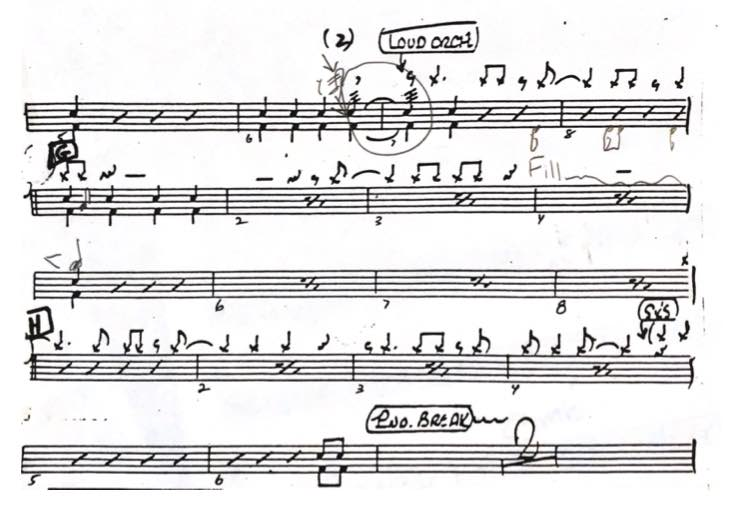
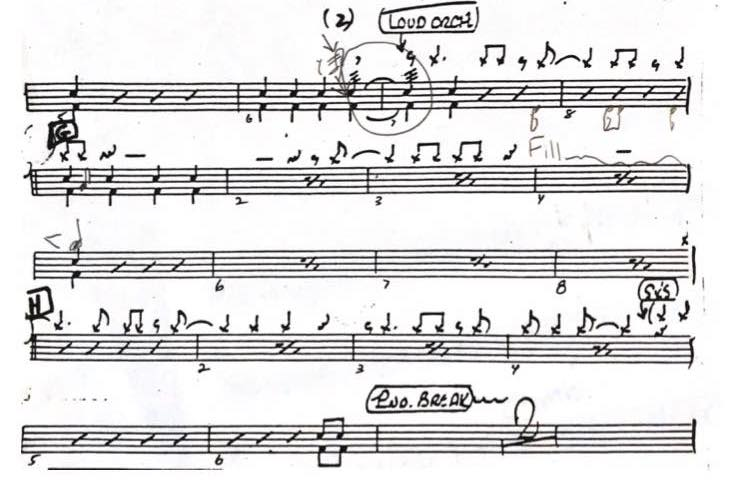
replace all of me 2 sheet image with resized image

Changed region(s): [[0.0312, 0.4658, 0.9661, 0.9938], [0.0312, 0.0, 0.9661, 0.4348]]

diff --git a/reading.html b/reading.html
@@ -71,7 +71,7 @@
             <div class="sheet-music-box">
                 <figure class="sheet-width">
                     <img src="assets/images/sheet-all-of-me-1.jpg" alt="drum sheet of all of me as played by Count Basie">
-                        <figcaption class="caption"><span>Drum sheet of of 'All Of Me' as played by the 'Count Basie Big Band"</span></figcaption>
+                        <figcaption class="caption"><span>Drum sheet of 'All Of Me' as played by the 'Count Basie Big Band" (first part)</span></figcaption>
                 </figure>
             </div>
             <div class="article-box">
@@ -87,8 +87,14 @@
             </div>
             <div class="article-box">
                 <p>
-                    Besides writing horn notes above the staff, it's also common write notes inside the staff. This indicates you should play the notes with more emphasis. Have a look at the sheet below, to see what that looks like.
+                    Besides writing horn notes above the staff, it's also common to write notes inside the staff. This indicates you should play the notes with more emphasis. Have a look at the sheet below, to see what that looks like.
                 </p>
+            </div>
+            <div class="sheet-music-box">
+                <figure class="sheet-width">
+                    <img src="assets/images/sheet-all-of-me-2.jpg" alt="drum sheet of all of me as played by Count Basie">
+                        <figcaption class="caption"><span>Drum sheet of 'All Of Me' as played by the 'Count Basie Big Band (second part)"</span></figcaption>
+                </figure>
             </div>
         </section>
     </main>
